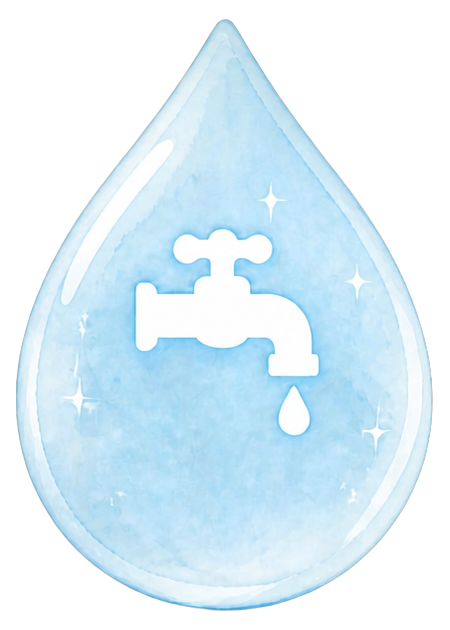
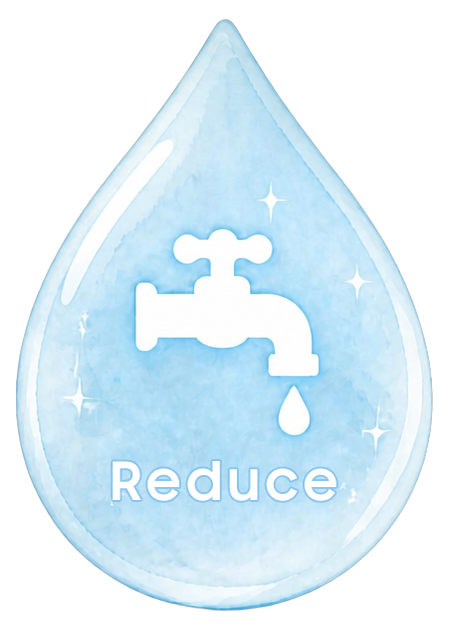
feat(intro): 클라이언트 인트로 변경 4건 — 새 물방울 아이콘(라벨 포함)·간격 확대·터진 뒤 문구 확대+교체·촬영 준비 2초 (0.8.4)
- assets-src/client-2026-09-07/ 물방울 PNG 3장(라벨 Reduce/Reuse/Restore 그림에 포함) → import-client-assets 가 우선 사용
- screen.bubbleLabel:false 로 CSS 라벨 끔(.bubble.nolabel)
- bubbleLayout.xCenters 25/50/75 → 21/50/79 (몸체 간격 20→63px)
- .done 3.1→4cqw, 문구 "물 사용량 줄이기"/"사용한 물 다시쓰기"/"사용한 물 이상을 복원하기"
- timing.readyMs 1000→2000

Claude-Session: https://claude.ai/code/session_01QX7krLeRzY3btP55QS8G76

Changed region(s): [[0.2489, 0.7238, 0.7467, 0.8143]]

diff --git a/kiosk/src/styles.css b/kiosk/src/styles.css
@@ -135,11 +135,13 @@ h1, .caption, .caption.big, .bubble .label, .bubble .done, #count-num, #head-tit
 .bubble .label { position: absolute; left: 0; right: 0; top: 66%; text-align: center; font-family: "Samsung SS Head KR", "Malgun Gothic", sans-serif; font-size: 2.9cqw; color: #ffffff;
   text-shadow: 0 .22cqh .5cqh rgba(8,58,86,.55), 0 0 .35cqh rgba(8,58,86,.4); }
 .bubble.png .inner { display: none; }
+.bubble.nolabel .label { display: none; }                                /* screen.bubbleLabel:false — 라벨이 그림에 있다(2026-09-07 변경 아이콘) */
 .bubble.popped { animation: none; }                                       /* 문구는 떠다니지 않는다 */
 .bubble.popped .body { visibility: hidden; }                              /* BURST: 물방울 숨김(터짐은 fx 캔버스) */
 /* MESSAGE: 터진 자리에 문구 페이드인 (스펙: BURST +200ms 에 200ms) — 사라지지 않고 남는다 */
-.bubble .done { position: absolute; inset: 0; display: none; flex-direction: column; align-items: center; justify-content: center;
-  padding: 0 .4cqw; font-family: "Samsung SS Head KR", "Malgun Gothic", sans-serif; font-size: 3.1cqw; line-height: 1.32; color: #ffffff; text-align: center;
+/* 2026-09-07 클라이언트: "터지고 난 뒤 글자가 너무 작다" → 3.1 → 4.0cqw. 상자를 물방울보다 좌우 3cqw 넓혀 두 줄 문구가 안 잘리게(간격을 벌려 이웃과 겹치지 않는다) */
+.bubble .done { position: absolute; inset: 0 -3cqw; display: none; flex-direction: column; align-items: center; justify-content: center;
+  padding: 0 .4cqw; font-family: "Samsung SS Head KR", "Malgun Gothic", sans-serif; font-size: 4cqw; line-height: 1.3; color: #ffffff; text-align: center;
   text-shadow: 0 .25cqh .8cqh rgba(0,60,110,.55), 0 0 1.4cqh rgba(0,60,110,.4); }   /* 데모(2026-09-06): 하늘 위 흰 글자 */
 .bubble.popped .done { display: flex; animation: doneIn var(--msg-fade, 200ms) var(--msg-at, 200ms) ease-out both; }
 @keyframes doneIn { 0% { opacity: 0 } 100% { opacity: 1 } }

diff --git a/kiosk/src/renderer.js b/kiosk/src/renderer.js
@@ -389,6 +389,7 @@
         : `<div class="body">${artDropSvg(i, ART_DROP_COLOR)}<div class="inner">${artIconSvg(g.icon, g.iconColor)}<div class="label"></div></div></div>`)
         + '<div class="done"></div>';
       if (pic) { b.classList.add('png'); b.querySelector('img.drop').src = pic.src; }
+      if (SCR.bubbleLabel === false) b.classList.add('nolabel');   // 2026-09-07: 라벨(Reduce/Reuse/Restore)이 PNG 에 들어 있어 CSS 라벨은 끈다
       else b.querySelector('.inner svg').classList.add('icon');
       b.querySelector('.label').textContent = g.label;
       // 목표 문구 — config 에 줄바꿈이 있으면 그 줄 그대로, 없으면 어절 단위로 세로 쌓기

diff --git a/scripts/import-client-assets.py b/scripts/import-client-assets.py
@@ -58,6 +58,9 @@ F_DEMO = os.path.join('demo', '[최종]전체데모.mp4')
 RIVER_DROPS = [[0.162, 0.19], [0.5, 0.15], [0.852, 0.19]]
 CARD_W, CARD_H = 664, 1040
 BUBBLES = {'reduce': 'reduce.png', 'reuse': 'reuse.png', 'restore': 'restore.png'}
+# 2026-09-07 클라이언트 변경 아이콘(라벨 Reduce/Reuse/Restore 가 그림에 들어 있고 아이콘이 위로) — 있으면 이 폴더의 물방울을 쓴다
+SRC_BUBBLES = next((d for d in [os.path.join(ROOT, 'assets-src', 'client-2026-09-07'), SRC]
+                    if all(os.path.exists(os.path.join(d, fn)) for fn in BUBBLES.values())), SRC)
 
 STAGE_W, STAGE_H = 1080, 1920
 BUBBLE_W, BUBBLE_H = 450, 630
@@ -210,7 +213,7 @@ def import_bubbles(report):
     bodies = {}
     ims = {}
     for key, fn in BUBBLES.items():
-        im = Image.open(os.path.join(SRC, fn)).convert('RGBA')
+        im = Image.open(os.path.join(SRC_BUBBLES, fn)).convert('RGBA')
         a = np.asarray(im)[:, :, 3]
         ys, xs = np.where(a > 128)
         bodies[key] = (int(xs.min()), int(ys.min()), int(xs.max() - xs.min() + 1), int(ys.max() - ys.min() + 1))
@@ -226,11 +229,11 @@ def import_bubbles(report):
         canvas.paste(crop, (bx, by), crop)
         canvas.save(os.path.join(OUT, f'bubble-{key}.png'), optimize=True)
     meta = {'version': 1, 'w': BUBBLE_W, 'h': BUBBLE_H, 'body': {'x': bx, 'y': by, 'w': bw, 'h': bh},
-            'keys': list(BUBBLES.keys()), 'srcBodies': bodies}
+            'keys': list(BUBBLES.keys()), 'srcBodies': bodies, 'srcDir': os.path.basename(SRC_BUBBLES)}
     with open(os.path.join(OUT, 'bubble.json'), 'w', encoding='utf-8') as f:
         json.dump(meta, f, ensure_ascii=False, indent=2)
     report['bubbles'] = meta
-    print(f'bubble-*.png  {BUBBLE_W}x{BUBBLE_H}  몸체 {bw}x{bh} @({bx},{by})  원본 {bodies}')
+    print(f'bubble-*.png  {BUBBLE_W}x{BUBBLE_H}  몸체 {bw}x{bh} @({bx},{by})  원본 {bodies}  ← {os.path.basename(SRC_BUBBLES)}')
     return meta
 
 

diff --git a/CLAUDE.md b/CLAUDE.md
@@ -45,6 +45,14 @@
   커서 숨김(`cursor:none`)은 `--kiosk` 모드(`body.kiosk`)에서만 — 창 모드로 확인할 때는 마우스가 보인다.
 - "카드 프린트 될 때 단면초로 메시지" = 인쇄 예상시간을 단면 기준으로. 통계(`logs/print-stats.json`)를 `single`/`duplex` 로 분리했고 옛 평면 통계는 양면으로 옮긴다. 9/7 변경 예고: 앞면 AR 포토 PNG, 폰트 디테일.
 
+## 클라이언트 인트로 변경 (2026-09-07, 0.8.4 — 위 [최종 1차] 의 물방울 구간을 덮어쓴다)
+카카오톡 `변경 아이콘/` 폴더(reduce/reuse/restore copy.png)와 요청 4건. 원본은 `assets-src/client-2026-09-07/` — `import-client-assets.py` 가 이 폴더의 물방울을 우선한다(`SRC_BUBBLES`, 몸체 bbox 는 9/6 판과 동일해 burst 정합 그대로).
+- **라벨 Reduce/Reuse/Restore 가 PNG 에 들어 있다**(폰트·그림자까지 클라이언트가 입힘) → `screen.bubbleLabel:false` 로 CSS 라벨을 끈다(`.bubble.nolabel`). 아이콘은 위로 올라갔다.
+- **물방울 간격**: "너무 붙어 있다" → `bubbleLayout.xCenters` 25/50/75 → **21/50/79**(폭 25cqw 유지, 몸체 사이 20px → 63px). 히트박스 세로만 +40px 규칙은 그대로.
+- **터진 뒤 문구**: "너무 작다" → `.done` 3.1 → **4cqw**, 상자 좌우 −3cqw 확장. 문구 교체: "물 사용량 줄이기" / "사용한 물 다시쓰기" / "사용한 물 이상을 복원하기"(config 줄바꿈 2·2·3줄).
+- **"사진 촬영 준비해주세요" 1초 더**: `timing.readyMs` 1000 → **2000**.
+- 참고 이미지 `변경 1.png`·`변경_2.jpg` 는 받지 못했다(폴더에 아이콘 3장뿐) — 간격·글자 크기는 요청 문장으로 정했으니 클라이언트 확인 대상. 영상(river.mp4)·카드 앞면 PNG 는 "교체만 하면 되게" 추가 전달 예정.
+
 ## 콘텐츠 수정 (2026-09-01 클라이언트 `(FM)KIWW2026_AR포토부스_콘텐츠수정.pptx` — 아래 요구사항 3·4번을 덮어쓴다. **2026-09-06 자료가 다시 덮어쓴다**)
 - 4대 목표 → **물 순환 4단계 Reduce / Reuse / Recycle / Return**. 터치 시 문구: "물 사용량을 줄이고" / "물 재이용을 늘리고" /
   "정수 기술로 재활용하여" / "깨끗하게 정화된 물을 자연에게 돌려줍니다". 4개 완료 캡션: "다시 쓰는 물, 다시 살아나는 물길 / 그리고, 그 물길 끝에서 만나는 달수".
